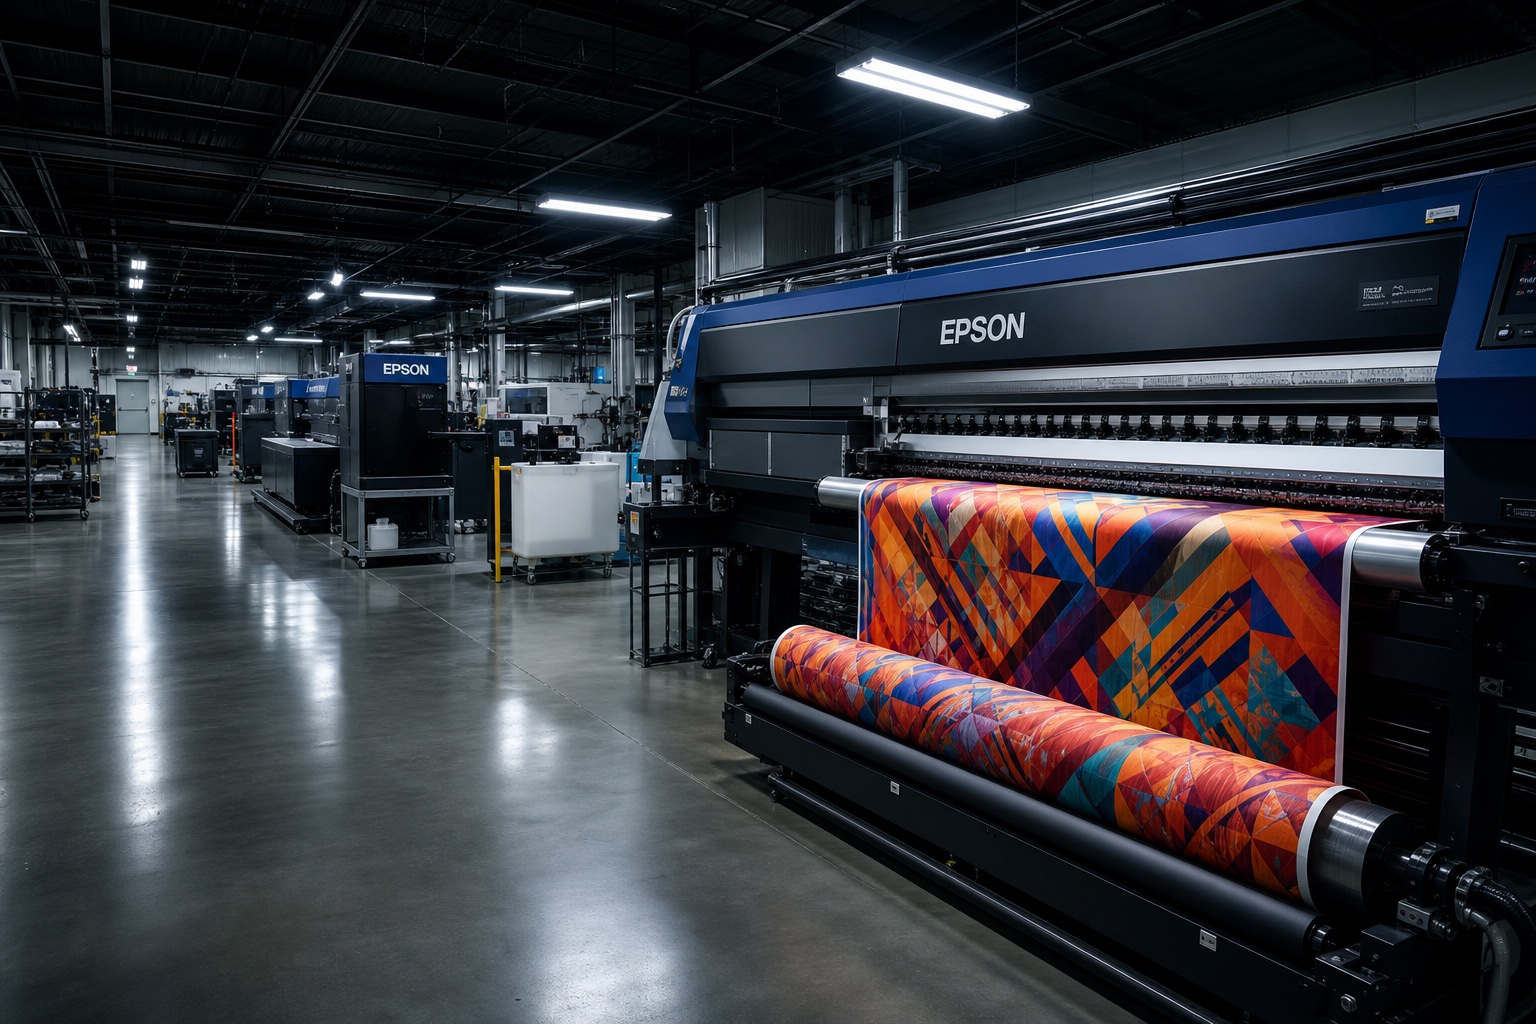
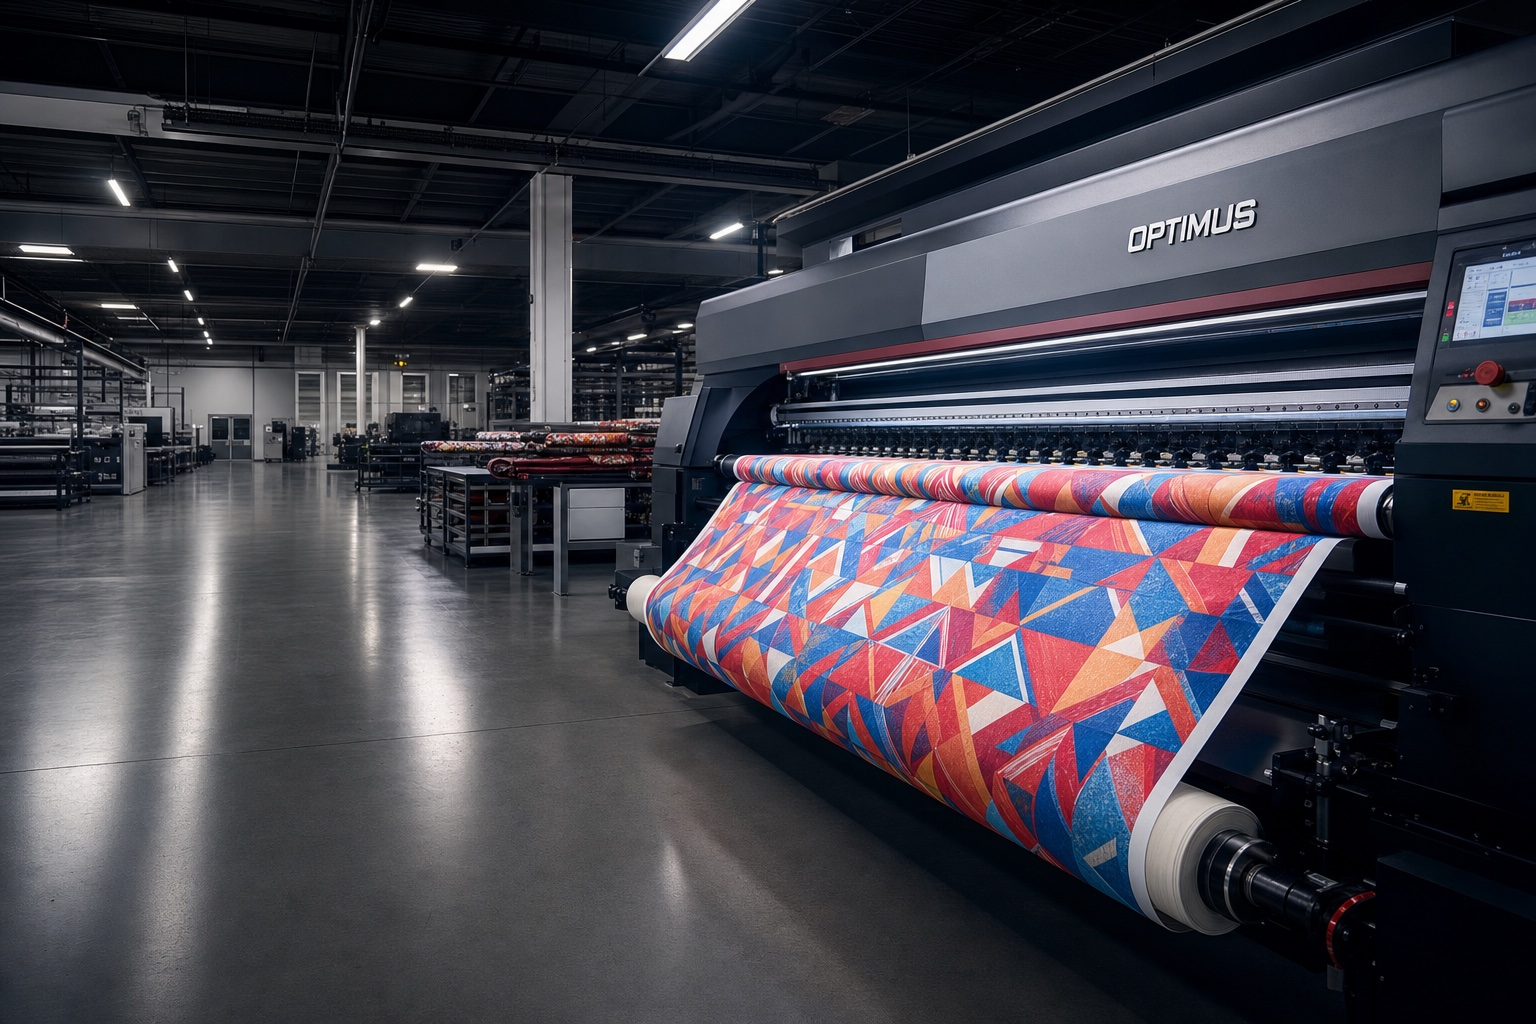
Update hero image, flags and sublimation pages content
- Replace hero background with OPTIMUS printer image
- Update hero description: "от 1 метра"
- Flags page: fix flag types (no size limits, correct fabrics, rename windеры, add флаги расцвечивания, remove вымпелы)
- Sublimation page: remove виндеры/арки, add брендированный текстиль block

diff --git a/app/(marketing)/flags/page.tsx b/app/(marketing)/flags/page.tsx
@@ -16,23 +16,19 @@ export const metadata: Metadata = buildMetadata({
 const flagTypes = [
   {
     title: "Уличные флаги",
-    description: "Флаги на флагштоки. Размеры от 60×90 до 100×200 см. Ткань Оксфорд или Политекс.",
+    description: "Флаги на флагштоки любых размеров — от малых до крупных форматов. Ткани: политекс, габардин, атлас, тафта.",
   },
   {
     title: "Настольные флаги",
     description: "Компактные флаги на подставке для переговорных комнат и выставочных стендов.",
   },
   {
-    title: "Виндеры (Drop Flag)",
-    description: "Вытянутые флаги на специальной стойке. Идеальны для выставок и event.",
+    title: "Виндеры (пляжные флаги)",
+    description: "Эффективное решение для наружной рекламы. Полотно из политекса (флажная сетка) крепится на гибкий флагшток — заметны на мероприятиях, у торговых объектов и в местах с высокой проходимостью.",
   },
   {
-    title: "Флажные арки",
-    description: "Арочные конструкции для финишных зон марафонов и спортивных событий.",
-  },
-  {
-    title: "Вымпелы",
-    description: "Треугольные флажки для гирлянд, внутреннего декора и корпоративных подарков.",
+    title: "Флаги расцвечивания",
+    description: "Декоративные флажные гирлянды для оформления улиц, площадей, праздников, фестивалей и городских мероприятий.",
   },
 ];
 
@@ -84,7 +80,7 @@ export default function FlagsPage() {
               Флаги и флажная продукция в Алматы
             </h1>
             <p className="mt-5 text-lg text-muted-text leading-relaxed">
-              Уличные, настольные, виндеры, арки и вымпелы с сублимационной печатью.
+              Уличные, настольные, виндеры и флаги расцвечивания с сублимационной печатью.
               Любые тиражи — от 1 штуки. Собственный цех, срок от 1 дня.
             </p>
             <div className="mt-6 flex flex-wrap gap-3">

diff --git a/app/(marketing)/sublimation/page.tsx b/app/(marketing)/sublimation/page.tsx
@@ -14,7 +14,7 @@ const galleryImages = [
 export const metadata: Metadata = buildMetadata({
   title: "Текстиль для мероприятий — скатерти, пресс-воллы, ролл-апы в Алматы",
   description:
-    "Брендированный текстиль для event: скатерти, пресс-воллы, ролл-апы, виндеры, арки. Сублимационная печать, собственный пошив. Срок от 3 дней.",
+    "Брендированный текстиль для event: скатерти, пресс-воллы, ролл-апы, корпоративный текстиль. Сублимационная печать, собственный пошив. Срок от 3 дней.",
   path: "/sublimation",
 });
 
@@ -35,19 +35,14 @@ const items = [
       "Мобильные выставочные стенды 85×200 см и 100×200 см. Изготовление за 1–2 дня, механизм включён. Подходят для выставок, конференций, ресепшн.",
   },
   {
-    title: "Виндеры (Feather Flag)",
+    title: "Брендированный текстиль",
     description:
-      "Вытянутые флаги на гнущейся стойке. Высота 2,5–4,5 м. Эффектно смотрятся у входа, на парковке, в стартовых зонах мероприятий.",
-  },
-  {
-    title: "Флажные арки",
-    description:
-      "Арочные конструкции для финишных и стартовых зон. Производство нестандартных размеров — под ваш объект.",
+      "Флаги компаний, баннерная ткань, корпоративные накидки, чехлы, салфетки, подушки и другой текстиль с полноцветной печатью.",
   },
   {
     title: "Тематический текстиль",
     description:
-      "Брендированные чехлы, накидки, декоративные элементы интерьера — под концепцию конкретного мероприятия.",
+      "Брендированные декоративные элементы интерьера — под концепцию конкретного мероприятия.",
   },
 ];
 
@@ -82,7 +77,7 @@ export default function SublimationPage() {
               Текстиль для мероприятий в Алматы
             </h1>
             <p className="mt-5 text-lg text-muted-text leading-relaxed">
-              Скатерти, пресс-воллы, ролл-апы, виндеры и арки с сублимационной печатью.
+              Скатерти, пресс-воллы, ролл-апы, брендированный текстиль с сублимационной печатью.
               Собственный пошив — точный крой под ваши размеры. Срок от 3 дней.
             </p>
             <div className="mt-6 flex flex-wrap gap-3">

diff --git a/components/sections/HeroSection.tsx b/components/sections/HeroSection.tsx
@@ -45,7 +45,7 @@ export function HeroSection() {
             <p className="mt-6 text-lg lg:text-xl text-white/75 leading-relaxed max-w-lg">
               Флаги, пресс-воллы, скатерти, виндеры — сублимационная
               печать{" "}
-              <span className="text-white font-semibold">от 1 штуки</span>.
+              <span className="text-white font-semibold">от 1 метра</span>.
             </p>
 
             {/* Trust pills */}